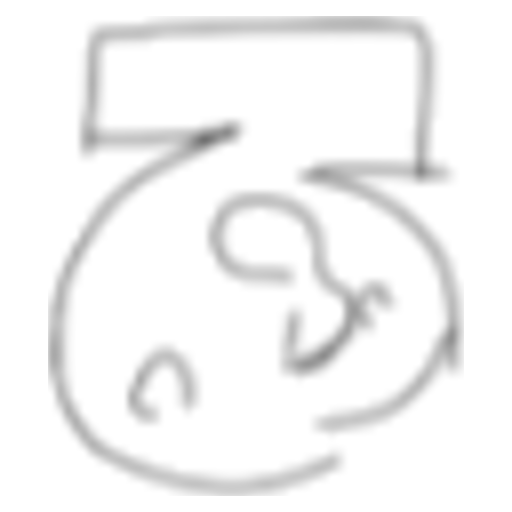
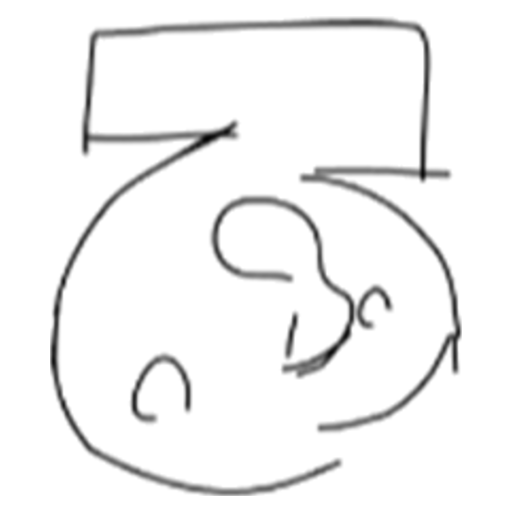
アップデートv2.3：追加の画像（すりむ・きみょうなドリンク・パック3つ）
- すりむ（800×600）、きみょうなドリンクを大きい絵に差し替え（512×512）、元祖・真・よせあつめパック（600×900）
- prepare-art.mjs：白いすき間の内側にある枠の線も切り落とす
- art_hold/ を .gitignore に追加

Changed region(s): [[0.0938, 0.0312, 0.9062, 0.9688], [0.4062, 0.375, 0.7812, 0.75], [0.25, 0.6562, 0.4062, 0.8438]]

diff --git a/PROGRESS.md b/PROGRESS.md
@@ -621,3 +621,11 @@
 - [x] npm test（446件）・npm run build・npm run test:slow が通った
 - [x] 別のエージェントの突き合わせ（8件）を直した：移る側は札を書いてから0.3秒待つ、裏に回ったタブの札（localStorage だけの時）、観戦は「対戦中」にしない、取り返した時に音を戻す、デイリーの知らせ・データを けす も止まったタブでは書かない、「この タブで あそぶ」が押せないままにならない、辞書のコメントの位置、UPDATE_v2.md の古い曲名（DECISIONS #435〜#448）
 - [x] scripts/tabs-e2e.mjs（23項目）・scripts/shots-v23-art.mjs をもう一度通した
+
+### 3. 画像を入れる（2回目：追加の画像）
+- [x] すりむ.png → cards/surimu.png（800×600）、新しい奇妙なドリンク.png → cards/kimyou_drink.png（512×512。古い小さい絵と差し替え）、元祖・真・寄せ集め.png → packs/pack_ganso・pack_shin・pack_yoseatsume.png（600×900）。元の画像は assets-original/ に写した
+- [x] prepare-art.mjs：枠の外側に白いすき間がある枠の線も切り落とす（よせあつめパックの左の線）。前からある絵は変わらないことを確かめた
+- [x] assets-original/・art_hold/ は git に入っていない（git ls-files で 0件）。art_hold/ も .gitignore に足した
+- [x] スクリーンショット：scripts/shots-v23b-art.mjs（カード一覧の くわしく・対戦・ガチャのパック3つ）を 1280×720／844×390 で。切れ・ずれなし。アイテムは今までどおり ふせん の形で絵を出さないので、きみょうなドリンクの絵は画面には出ない
+- [x] npm test・npm run build
+- [ ] まだ仮の絵：コイン・プレゼント・空いた箱・デイリー・トロフィあげ
